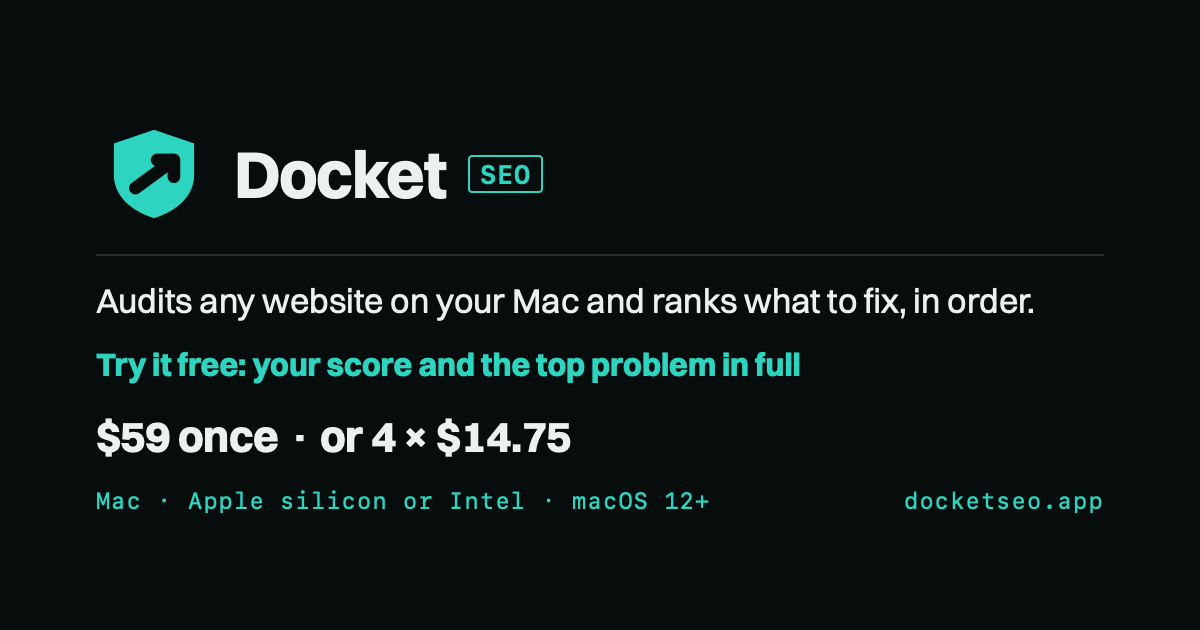
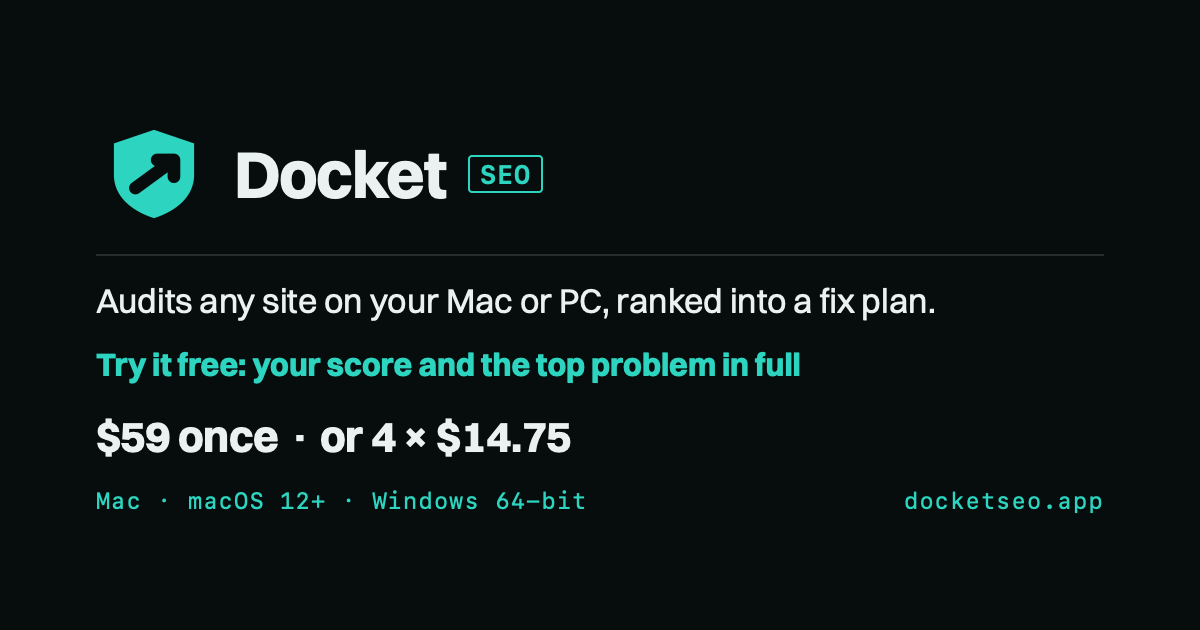
Share card: Mac or PC and Windows 64-bit for the Windows relaunch, standing price only, new og:image key 20261108-win

Changed region(s): [[0.2158, 0.4524, 0.8633, 0.5127], [0.1542, 0.7841, 0.5858, 0.8143]]

diff --git a/scripts/render_brand_assets.py b/scripts/render_brand_assets.py
@@ -181,6 +181,13 @@ def og_html(pal: dict) -> str:
     price = f"{_site.PRICE_STR} once" + (
         f" \u00b7 or 4 \u00d7 {_site.BNPL_INSTALMENT}" if _site.BNPL_LIVE else "")
     floor = f"{_site.MACOS}+"
+    # 2026-11-08 (CEO, the Windows relaunch): Windows is shipped and signed, so the card says so, read from the same
+    # WINDOWS flag every Windows sentence on the site reads; without a published installer it says Mac only, as before.
+    # "Mac or PC" makes the old line wrap one word onto a second line; this one matches the relaunch tagline.
+    pitch = ("Audits any site on your Mac or PC, ranked into a fix plan." if _site.WINDOWS
+             else "Audits any website on your Mac and ranks what to fix, in order.")
+    runs = (f"Mac \u00b7 {floor} \u00b7 Windows 64-bit" if _site.WINDOWS
+            else f"Mac \u00b7 {_site.MAC_HW} \u00b7 {floor}")
     fonts = (SITE / "fonts").as_uri()
     bare_shield = (
         '<svg viewBox="0 0 1024 1024" width="116" height="116">'
@@ -213,10 +220,10 @@ body{{background:{pal['paper']};color:{pal['ink']};
 </style>
 <div class="row">{bare_shield}<span class="word">Docket</span><span class="chip">SEO</span></div>
 <div class="rule"></div>
-<div class="line">Audits any website on your Mac and ranks what to fix, in order.</div>
+<div class="line">{pitch}</div>
 <div class="free">Try it free: your score and the top problem in full</div>
 <div class="price">{price}</div>
-<div class="foot"><span>Mac \u00b7 {_site.MAC_HW} \u00b7 {floor}</span><span>docketseo.app</span></div>
+<div class="foot"><span>{runs}</span><span>docketseo.app</span></div>
 """
 
 

diff --git a/scripts/render.py b/scripts/render.py
@@ -2432,7 +2432,8 @@ ANALYTICS = (
 #: Changed whenever og.png's content changes, so the platforms that cache a
 #: share card by URL (X, LinkedIn, iMessage, Product Hunt) fetch the new one.
 #: 2026-10-02: the card gained the free version, the price and the requirement.
-OG_VERSION = "20261002" + ("-intel" if INTEL else "")
+#: 2026-11-08: the card says Mac or PC and names Windows (the Windows relaunch), so a new key.
+OG_VERSION = "20261108" + ("-win" if WINDOWS else "-intel" if INTEL else "")
 
 
 #: Bing Webmaster Tools site verification. Matthew's order, 2026-09-26 01:28Z
